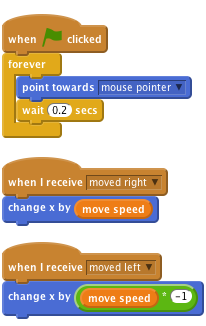
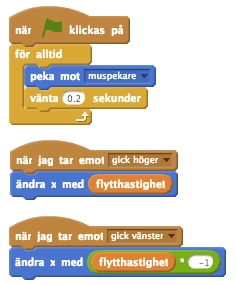
sv-SE_translations: Translated the Eyes Scratch Card.

diff --git a/sv-SE/02_scratch/01/01-01 Make a Monster - Eyes.html b/sv-SE/02_scratch/01/01-01 Make a Monster - Eyes.html
@@ -1,0 +1,63 @@
+<!DOCTYPE html>
+<html class="world" lang="sv-SE">
+<head>
+    <meta charset="utf-8">
+    <meta name="viewport" content="width=device-width, initial-scale=1.0">
+
+    <meta name="google-site-verification" content="LAa8xdL-G6vOe9RSZnECSduS5m1BMiM8U2erQku5yIE" />
+
+    <title>Monsterförjdupningskort - Ögon — Code Club World Projects</title>
+
+    <!--[if lt IE 9]><script src="http://html5shim.googlecode.com/svn/trunk/html5.js"></script><![endif]-->
+
+    <link rel="stylesheet" href="../../../css/master.min.css">
+  </head>
+
+  <body class="index-template world">
+    <header class="header" role="banner">
+      <a class="home-link" href="../../../index.html"><img alt="" class="logo" height="100" src="../../../img/ccw_logo.png"></a>
+      <h1 class="title">Monsterförjdupningskort - Ögon</h1>
+      <span class="level-indicator">Nivå 4</span>
+    </header>
+
+    <nav class="breadcrumbs"><ul class="breadcrumbs-list"><li class="breadcrumbs-item"><a class="breadcrumbs-link" href="../../../index.html">Språk</a></li><li class="breadcrumbs-item"><a class="breadcrumbs-link" href="../../index.html">Svenska</a></li><li class="breadcrumbs-item"><a class="breadcrumbs-link" href="../index.html">Advancerad Scratch</a></li><li class="breadcrumbs-item current">Ögon</li></ul></nav>
+
+    <main class="main lesson-steps" role="main">
+<section id="activity-checklist" class="level2 check">
+<h2>Checklista för aktivitet</h2>
+<ul>
+<li><p>Du kan ge ditt monster ögon som följer muspekaren när den rör sig över skärmen. Ditt monster kan ha så många ögon som du vill, till och med åtta, som en spindel! Eftersom vi vill att våra monsterögon ska följa muspekaren hela tiden så måste vi använda <code class="blockyellow">för alltid</code>-blocket. När den <strong>gröna flaggan</strong>-scripten har startat så vill vi att ögonen ska peka i riktining mot muspekaren <code class="blockyellow">för alltid</code>, och justeras flera gånger i sekunden.</p>
+<p><img src="266e55fbd1af869706cee921438558bb658cb2cd.png" alt="när FLAGGAN klickas på
+    för allitd
+        peka mot [muspekare]
+        väntad (0.2) sekunder
+
+när jag tar emot [gick höger]
+    ändra x med (flytthastighet)
+
+när jag tar emot [gick vänster]
+    ändra x med ((flytthastighet) * (-1))" /></p></li>
+</ul>
+<p>Notera att vi behöver sända event när vi rör på monstret så att ögonen flyttas tillsammans med kroppen och de andra kroppsdelarna. Vad mer kan du få ögonen att göra? Om du flyttar muspekaren mellan ögonen så kommer ögonen titta i kors!</p>
+</section>
+    </main>
+
+    <aside class="legal-notice copyright">
+      <p>These projects are for use outside the UK only. More information is available on our website at <a href="http://www.codeclub.org.uk/">http://www.codeclub.org.uk/</a>. This coursework is developed in the open on GitHub (<a href="https://github.com/CodeClub/">https://github.com/CodeClub</a>), come and join us!</p>
+      <p>&copy; 2014 Code Club. This work is licensed under a <a rel="license" href="http://creativecommons.org/licenses/by-nc-sa/4.0/">BY-NC-SA 4.0 International License</a>.</p>
+    </aside>
+
+    <!-- Google Analytics -->
+    <script type="text/javascript">
+      var _gaq = _gaq || [];
+      _gaq.push(['_setAccount', 'UA-30750176-5']);
+      _gaq.push(['_setDomainName', 'projects.codeclubworld.org']);
+      _gaq.push(['_trackPageview']);
+      (function() {
+        var ga = document.createElement('script'); ga.type = 'text/javascript'; ga.async = true;
+        ga.src = ('https:' == document.location.protocol ? 'https://ssl' : 'http://www') + '.google-analytics.com/ga.js';
+        var s = document.getElementsByTagName('script')[0]; s.parentNode.insertBefore(ga, s);
+      })();
+    </script>
+  </body>
+</html>
